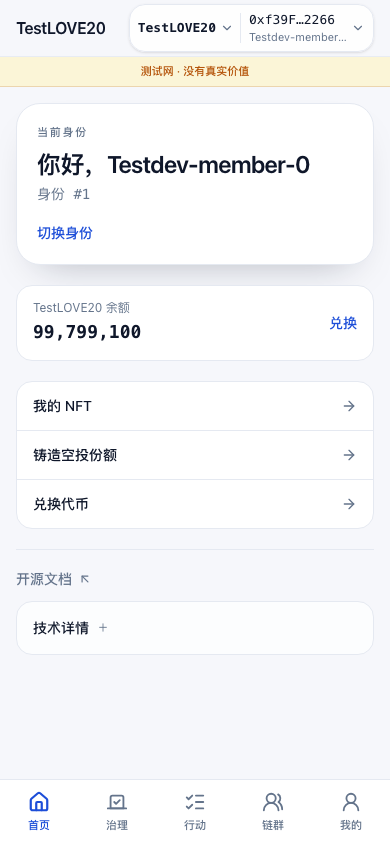
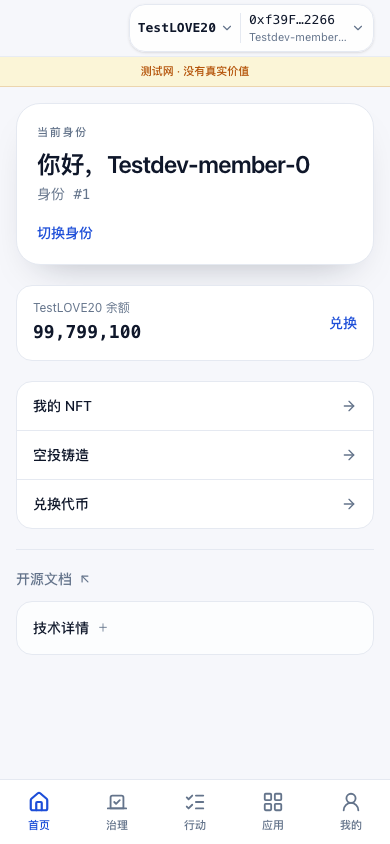
fix(shell): remove duplicate mobile home community wordmark
The mobile home header rendered the community symbol twice: as the left
HomeWordmark link and again in the top-right ConnectPill chip. The owner
wants only the chip, so drop the home wordmark on <md; desktop keeps the
「首页」 label (the sidebar still owns the desktop wordmark) and secondary
pages keep back + title. The banner landmark and pill area are unchanged.

- Header no longer imports HomeWordmark / useCommunityDisplay /
  useCommunityContext; copy.header.brandAria stays for the sidebar.
- app-header tests assert no wordmark link, a live pill area and the
  secondary back/title header; smoke spec drops the brand-link assertion.
- §1.3 documents the new header and the accepted disconnected trade-off
  (no community name on the mobile home header until the wallet connects).
- Regenerated the five 390×844 home-* evidence screenshots.

Changed region(s): [[0.0923, 0.5237, 0.3077, 0.5545], [0.0615, 0.0308, 0.2769, 0.0616], [0.6769, 0.9242, 0.7385, 0.9858]]

diff --git a/src/app/shell/app-header.test.tsx b/src/app/shell/app-header.test.tsx
@@ -1,72 +1,45 @@
 import { render, screen } from '@testing-library/react';
 import { MemoryRouter } from 'react-router-dom';
-import { beforeEach, describe, expect, it, vi } from 'vitest';
+import { describe, expect, it, vi } from 'vitest';
 import { AppHeader } from '@/app/shell/app-header';
-import { useCommunityToken } from '@/entities/community-token/model/use-community-token';
-import type { CommunityToken } from '@/entities/community-token/model/use-community-token';
 
 vi.mock('@/widgets/connect-pill/connect-pill', () => ({
   ConnectPill: () => <span data-testid="connect-pill" />,
 }));
 
-vi.mock('@/features/switch-community/model/use-community-context', () => ({
-  useCommunityContext: () => ({
-    symbol: 'TestLOVE20',
-    fromUrl: true,
-    switchSymbol: () => {},
-  }),
-}));
-
-vi.mock('@/entities/community-token/model/use-community-token', () => ({
-  useCommunityToken: vi.fn(),
-}));
-
-const communityToken = vi.mocked(useCommunityToken);
-
-const TOKEN: CommunityToken = {
-  status: 'ready',
-  address: '0x8aCd85898458400f7Db866d53FCFF6f0D49741FF',
-  name: 'TestLOVE20@TestWETH',
-  symbol: 'TestLOVE20',
-  decimals: 18,
-  isMetadataLoading: false,
-  metadataError: false,
-  refetch: () => {},
-};
-
-function renderHeader() {
+function renderHeader(path: string) {
   return render(
-    <MemoryRouter initialEntries={['/']}>
+    <MemoryRouter initialEntries={[path]}>
       <AppHeader />
     </MemoryRouter>,
   );
 }
 
-beforeEach(() => {
-  communityToken.mockReturnValue(TOKEN);
-});
+describe('AppHeader', () => {
+  it('home has no wordmark link, keeps the pill area and the landmark', () => {
+    renderHeader('/');
 
-describe('AppHeader wordmark', () => {
-  it('shows the protocol label while community metadata loads, then the chain symbol', () => {
-    communityToken.mockReturnValue({ ...TOKEN, isMetadataLoading: true });
-    const view = renderHeader();
-
-    expect(screen.getByRole('link', { name: 'LOVE20协议 首页' })).toHaveTextContent('LOVE20协议');
-
-    communityToken.mockReturnValue(TOKEN);
-    view.rerender(
-      <MemoryRouter initialEntries={['/']}>
-        <AppHeader />
-      </MemoryRouter>,
-    );
-
-    expect(screen.getByRole('link', { name: 'TestLOVE20 首页' })).toHaveTextContent('TestLOVE20');
+    // The mobile wordmark was removed by owner request (2026-11-11): the
+    // community symbol lives in the top-right pill, not a left home link.
+    expect(screen.queryByRole('link')).toBeNull();
+    expect(screen.queryByRole('link', { name: /首页/ })).toBeNull();
+    expect(screen.getByRole('banner')).toBeInTheDocument();
+    expect(screen.getByTestId('connect-pill')).toBeVisible();
   });
 
-  it('keeps the protocol label when no community is resolved', () => {
-    communityToken.mockReturnValue({ ...TOKEN, status: 'unknown', address: undefined });
-    renderHeader();
+  it('desktop home keeps the page label as plain text, not a link', () => {
+    renderHeader('/');
 
-    expect(screen.getByRole('link', { name: 'LOVE20协议 首页' })).toHaveTextContent('LOVE20协议');
+    expect(screen.getByText('首页')).toBeInTheDocument();
+    expect(screen.getByText('首页').closest('a')).toBeNull();
+  });
+
+  it('secondary pages still render the back control, title and pill', () => {
+    renderHeader('/my-nft');
+
+    expect(screen.getByRole('button', { name: '返回上一页' })).toBeVisible();
+    expect(screen.getByRole('heading', { name: '我的 NFT' })).toBeVisible();
+    expect(screen.getByTestId('connect-pill')).toBeVisible();
+    expect(screen.queryByText('首页')).toBeNull();
   });
 });

diff --git a/e2e/home-my-nft.spec.ts b/e2e/home-my-nft.spec.ts
@@ -169,13 +169,21 @@ async function shot(page: Page, name: string): Promise<void> {
 }
 
 /**
- * UX spec §1.3: the home wordmark is the current community's on-chain symbol(),
- * not the static protocol name. Waiting for it also keeps screenshots stable.
+ * UX spec §1.3 (owner request 2026-11-11): the mobile home header has no left
+ * wordmark link any more. While connected, the community symbol is still on
+ * screen in the top-right pill's community trigger; while disconnected the
+ * header shows only 「连接钱包」 (the accepted trade-off in §1.3). Waiting for
+ * the tab title also keeps screenshots stable.
  */
-async function expectCommunityWordmark(page: Page): Promise<void> {
-  await expect(page.getByRole('link', { name: 'TestLOVE20 首页' })).toBeVisible({
-    timeout: 15_000,
-  });
+async function expectCommunityHeader(page: Page, connected: boolean): Promise<void> {
+  await expect(page.getByRole('banner').getByRole('link')).toHaveCount(0);
+  if (connected) {
+    await expect(
+      page.getByRole('button', { name: '当前代币社区 TestLOVE20，打开社区菜单' }),
+    ).toContainText('TestLOVE20');
+  } else {
+    await expect(page.getByRole('banner').getByRole('button', { name: '连接钱包' })).toBeVisible();
+  }
   await expect(page).toHaveTitle('TestLOVE20');
 }
 
@@ -195,7 +203,7 @@ test('home: disconnected shows connect and no identity yet', async ({ page }) =>
   await expect(page.getByText('你还没有身份')).toHaveCount(0);
   await expect(page.getByText('无需操作')).toHaveCount(0);
   expect(await countSolidButtons(page)).toBe(1);
-  await expectCommunityWordmark(page);
+  await expectCommunityHeader(page, false);
 
   await shot(page, 'home-disconnected.png');
 });
@@ -251,7 +259,7 @@ test('home: connected without identity offers 我的 NFT only', async ({ page })
   await expect(page.getByText('无需操作')).toHaveCount(0);
   await expect(page.getByText('你参与了销毁活动，获得空投铸造资格')).toHaveCount(0);
   expect(await countSolidButtons(page)).toBe(0);
-  await expectCommunityWordmark(page);
+  await expectCommunityHeader(page, true);
 
   await shot(page, 'home-connected-no-identity.png');
 });
@@ -267,7 +275,7 @@ test('home: identity greeting persists across reload', async ({ page }) => {
   await expect(page.getByRole('link', { name: '切换身份' })).toBeVisible();
   await expect(page.getByText('无需操作')).toHaveCount(0);
   expect(await countSolidButtons(page)).toBe(0);
-  await expectCommunityWordmark(page);
+  await expectCommunityHeader(page, true);
 
   // 99,799,100 renders with thousands separators, never as a wall of digits.
   const balanceRow = page.getByRole('region', { name: 'TestLOVE20 余额' });
@@ -288,11 +296,11 @@ test('home: eligible wallet sees the airdrop card', async ({ page }) => {
   const title = page.getByText('你参与了销毁活动，获得空投铸造资格');
   await expect(title).toBeVisible({ timeout: 20_000 });
   const card = page.locator('section[aria-labelledby="airdrop-eligibility-title"]');
-  await expect(card.getByRole('link', { name: '铸造空投份额' })).toBeVisible();
+  await expect(card.getByRole('link', { name: '空投铸造' })).toBeVisible();
   // The card has a title and one CTA; no subtitle, no explanation sentence.
   await expect(card.locator('p')).toHaveCount(0);
   expect(await countSolidButtons(page)).toBe(1);
-  await expectCommunityWordmark(page);
+  await expectCommunityHeader(page, true);
   await shot(page, 'home-airdrop-eligible.png');
 });
 

diff --git a/src/app/shell/app-header.tsx b/src/app/shell/app-header.tsx
@@ -1,9 +1,7 @@
 import { ArrowLeft } from '@/shared/ui/icons';
-import { Link, useLocation, useNavigate } from 'react-router-dom';
+import { useLocation, useNavigate } from 'react-router-dom';
 import { copy } from '@/shared/config/copy';
 import { pageTitleFor } from '@/app/navigation/navigation';
-import { useCommunityDisplay } from '@/entities/community-token/model/use-community-display';
-import { useCommunityContext } from '@/features/switch-community/model/use-community-context';
 import { ConnectPill } from '@/widgets/connect-pill/connect-pill';
 
 function canGoBack(): boolean {
@@ -12,30 +10,10 @@ function canGoBack(): boolean {
 }
 
 /**
- * Home wordmark = the current community's on-chain symbol(), with the protocol
- * label only while that metadata is unavailable (§1.3). The fallback is what
- * keeps first paint stable; long symbols truncate instead of moving the pill.
- */
-function HomeWordmark() {
-  const { symbol } = useCommunityContext();
-  const wordmark = useCommunityDisplay(symbol).symbol;
-
-  return (
-    <Link
-      to="/"
-      aria-label={copy.header.brandAria(wordmark)}
-      className="flex min-w-0 shrink-0 items-center rounded-xl focus-visible:outline-none focus-visible:ring-2 focus-visible:ring-brand/40 md:hidden"
-    >
-      <span className="max-w-[9rem] truncate text-base font-semibold tracking-tight">
-        {wordmark}
-      </span>
-    </Link>
-  );
-}
-
-/**
- * Sticky page header. Home shows the wordmark; every other page shows a real
- * back control (deep links included) plus the title and the one connect pill.
+ * Sticky page header. Home carries no left wordmark on mobile: the community
+ * symbol lives in the top-right pill, and desktop shows the home label (the
+ * sidebar owns the desktop wordmark). Every other page shows a real back
+ * control plus the title and the one connect pill.
  */
 export function AppHeader() {
   const location = useLocation();
@@ -52,10 +30,7 @@ export function AppHeader() {
     <header className="sticky top-0 z-30 border-b border-line/80 bg-background/85 backdrop-blur supports-[backdrop-filter]:bg-background/70">
       <div className="mx-auto flex min-h-14 w-full max-w-2xl items-center gap-1.5 px-4 pt-[env(safe-area-inset-top)]">
         {isHome ? (
-          <>
-            <HomeWordmark />
-            <span className="hidden text-sm font-medium text-muted md:inline">{copy.nav.home}</span>
-          </>
+          <span className="hidden text-sm font-medium text-muted md:inline">{copy.nav.home}</span>
         ) : (
           <div className="flex min-w-0 flex-1 items-center gap-1">
             <button

diff --git a/e2e/smoke.spec.ts b/e2e/smoke.spec.ts
@@ -4,9 +4,9 @@ test.describe('M0 shell', () => {
   test('renders the home shell and connect entry', async ({ page }) => {
     await page.goto('/');
     await expect(page.locator('#root')).toBeVisible();
-    // The home wordmark follows the community symbol() (LOVE20 only as fallback),
-    // so assert the accessible brand link without pinning it to the protocol name.
-    await expect(page.getByRole('banner').getByRole('link', { name: /首页$/ })).toBeVisible();
+    // The mobile home header carries no left wordmark link (owner request
+    // 2026-11-11); the community name lives in the top-right pill once connected.
+    await expect(page.getByRole('banner').getByRole('link')).toHaveCount(0);
     // The header pill and the identity area both offer connect while disconnected.
     await expect(page.getByRole('button', { name: '连接钱包' }).first()).toBeVisible();
     // Five mobile tabs are visible at the phone viewport.
@@ -21,13 +21,10 @@ test.describe('M0 shell', () => {
     await expect(page).toHaveTitle('我的 NFT · TestLOVE20', { timeout: 15_000 });
   });
 
-  test('unknown community falls back to the protocol label in tab title and wordmark', async ({
-    page,
-  }) => {
+  test('unknown community falls back to the protocol label in the tab title', async ({ page }) => {
     await page.goto('/?symbol=NOT_A_REAL_COMMUNITY');
-    await expect(page.getByRole('link', { name: 'LOVE20协议 首页' })).toBeVisible({
-      timeout: 15_000,
-    });
+    // No header wordmark exists to assert (§1.3); the fallback lives in the title.
+    await expect(page.getByRole('banner').getByRole('link')).toHaveCount(0);
     await expect(page).toHaveTitle('LOVE20协议');
   });
 });

diff --git a/src/app/shell/desktop-sidebar.test.tsx b/src/app/shell/desktop-sidebar.test.tsx
@@ -43,7 +43,7 @@ beforeEach(() => {
 });
 
 describe('DesktopSidebar wordmark', () => {
-  it('follows the current community symbol() like the mobile header', () => {
+  it('follows the current community on-chain symbol()', () => {
     renderSidebar();
     expect(screen.getByRole('link', { name: 'TestLOVE20 首页' })).toHaveTextContent('TestLOVE20');
   });

diff --git a/docs/product/m0-ux-spec.md b/docs/product/m0-ux-spec.md
@@ -45,16 +45,17 @@
 
 | 页面类型 | 左 | 中 | 右 |
 |---|---|---|---|
-| 一级（首页） | 品牌字标：当前社区 `symbol()`；无选中/未知社区时「LOVE20协议」 | — | 完整药丸（chip + 地址/身份） |
+| 一级（首页） | 移动端（<md）：无（**不渲染品牌字标**）；桌面（≥md）：「首页」文字标签（社区名在左侧栏顶部） | — | 完整药丸（chip + 地址/身份）；已连接时它是移动端页头唯一的社区名位置 |
 | 二级（我的 NFT / 铸造身份 / 铸造空投份额 / 兑换代币） | 返回按钮 44×44 | 标题，单行 `truncate`，最长 8 字 | 药丸：chip 收成 28px 首字符圆徽（<480px），右触发区保留 |
-| 占位页 | 品牌字标（同首页规则） | 标签名 | 完整药丸 |
+| 占位页 | 返回按钮 44×44 | 标签名 | 药丸：chip 收成 28px 首字符圆徽（<480px），右触发区保留 |
 | 收据态（页面内状态） | 「关闭」→ 首页 | 结果标题（铸造成功 / 兑换完成 / 已铸造） | 紧凑药丸（仅右触发区） |
 
+- **移动端首页没有左侧品牌字标（2026-11-11 owner 决定）**：页头左侧原来渲染当前社区 `symbol()`，与右上角 chip 重复。现在移动端首页页头只有右上角药丸；已连接时社区名由药丸的 chip 承载，桌面端由左侧栏顶部字标承载，二级页与占位页由标题承载。**已知后果（刻意接受的取舍，待 owner 最终确认）**：钱包未连接时右上角只有「连接钱包」，因此移动端首页页头完全不显示社区名；不为此新增第二处社区名或第二个连接入口。
 - 返回：有历史 → `back`；无历史（直接打开深链）→ 回首页。始终有返回，深链不产生无出口页面。
 - 页内标题只描述页面，不重复社区名；社区名在 chip 里。避免「铸造身份 · FOO」这种双标题。
-- **社区名 = `symbol()`；`name()` 只用于技术详情/调试信息，不进主界面。** 只要界面出现「当前社区的名字」——页头品牌行、右上角社区 chip、含社区名的页面标题、任何元信息行——一律渲染链上 `symbol()`（如 `TestLOVE20`）。没有选中/未知社区时，这些位置回退到协议标签「LOVE20协议」——它命名的是协议，不是一个代币社区；LOVE20 社区被选中时，社区名就是它自己的 `symbol()`「LOVE20」。页内标题原则上仍不重复社区名（见上一条）；若某个页内标题确实带上社区，用 `symbol()`。`name()` 是形如 `<子币 symbol>@<父币 symbol>` 的复合技术标识（如 `TestLOVE20@TestWETH`），不是显示名，不得用作社区名。
+- **社区名 = `symbol()`；`name()` 只用于技术详情/调试信息，不进主界面。** 只要界面出现「当前社区的名字」——桌面侧栏品牌行、右上角社区 chip、含社区名的页面标题、任何元信息行——一律渲染链上 `symbol()`（如 `TestLOVE20`）。没有选中/未知社区时，这些位置回退到协议标签「LOVE20协议」——它命名的是协议，不是一个代币社区；LOVE20 社区被选中时，社区名就是它自己的 `symbol()`「LOVE20」。页内标题原则上仍不重复社区名（见上一条）；若某个页内标题确实带上社区，用 `symbol()`。`name()` 是形如 `<子币 symbol>@<父币 symbol>` 的复合技术标识（如 `TestLOVE20@TestWETH`），不是显示名，不得用作社区名。
 - **浏览器标签页标题**：有当前社区时 `<页面> · <社区 symbol>`；没有选中/未知社区时只写「LOVE20协议」。社区名同样取 `symbol()`，不用 `name()`。
-- 药丸在手机与桌面位置相同（右上角），不做第二处连接入口。
+- 药丸在手机与桌面位置相同（右上角），不做第二处连接入口，也不在移动端页头另设品牌字标；社区名只由药丸 chip（已连接时）、桌面侧栏或页内标题承载。
 
 ### 1.4 右上角连接药丸
 
@@ -115,7 +116,7 @@
 - `?from` / `?to` 是兑换页自己的兑换对参数（§3.5），与 `?symbol=` 并行：切换社区不改写 from/to，切换 from/to 也不改写 `?symbol=`。
 - 缺省或空：读环境包 `firstTokenAddress` 的 `symbol()` 后 `history.replaceState` 补上 `?symbol=`，不新增历史记录。
 - 写入 URL 的 symbol 永远来自链上 `symbol()`（如 dev 链的 `TestLOVE20`），不接受用户手输；用户手改 URL 走 §2.5。
-- **社区名 = `symbol()`；`name()` 只用于技术详情/调试信息，不进主界面。** 页头品牌行、chip、含社区名的页面标题与元信息行都渲染 `symbol()`（如 `TestLOVE20`），不渲染 `name()`；没有选中/解析到社区时回退到协议标签「LOVE20协议」——它命名协议，不是代币社区。LOVE20 社区被选中时，社区名就是它自己的 `symbol()`「LOVE20」；其他社区则用各自的 `symbol()`。`name()` 是 `<子币 symbol>@<父币 symbol>` 的复合技术标识（如 `TestLOVE20@TestWETH`），不是显示名。
+- **社区名 = `symbol()`；`name()` 只用于技术详情/调试信息，不进主界面。** 桌面侧栏品牌行、右上角 chip、含社区名的页面标题与元信息行都渲染 `symbol()`（如 `TestLOVE20`），不渲染 `name()`；没有选中/解析到社区时回退到协议标签「LOVE20协议」——它命名协议，不是代币社区。LOVE20 社区被选中时，社区名就是它自己的 `symbol()`「LOVE20」；其他社区则用各自的 `symbol()`。`name()` 是 `<子币 symbol>@<父币 symbol>` 的复合技术标识（如 `TestLOVE20@TestWETH`），不是显示名。
 - 解析：`Launch.tokenAddressBySymbol(symbol)`；返回 `0x0` 即不存在。解析成功后保留其余 query（如 `?tx=`）。
 
 ### 2.2 切换判定表
